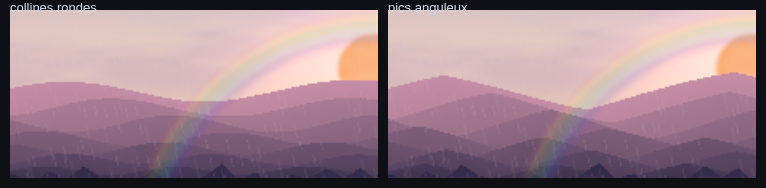
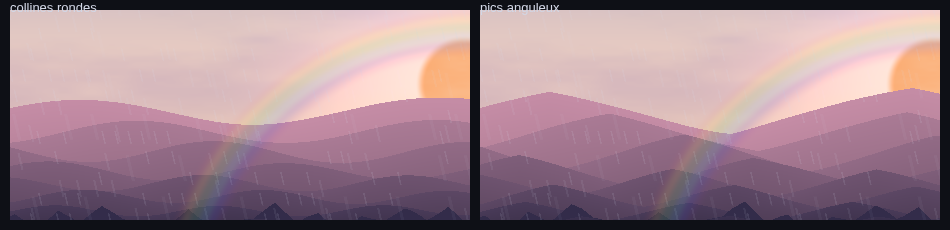
Draw the comparison of the peaks at full resolution
The picture that shows the rounded hills next to the sharp ones was a
small render blown up - a picture full of blocks, which says nothing
about the scene. It is now drawn twice the size and cut, so the pixels
are the ones the scene draws.

diff --git a/tests/e2e/scene-shot.js b/tests/e2e/scene-shot.js
@@ -84,7 +84,7 @@ const SHOTS = [
   await page.goto('about:blank');
 
   const pngs = await page.evaluate(async ({ vs, fs, shots }) => {
-    const W = 520, H = 330;
+    let W = 520, H = 330;
     const canvas = document.createElement('canvas');
     canvas.width = W; canvas.height = H;
     const gl = canvas.getContext('webgl', { preserveDrawingBuffer: true });
@@ -190,14 +190,23 @@ const SHOTS = [
     out.compare = sheet.toDataURL('image/png');
 
     // And the same for the shape of the range: the hills alone, rounded
-    // and angular, side by side. That is the part of the scene the
-    // chain changes the shape of.
-    const PEAKS = { x: 30, y: 55, w: 230, h: 105 }, PZOOM = 1.6;
+    // and angular, side by side. Drawn twice the size, because a picture
+    // that is zoomed out of a small render is a picture full of blocks.
     const peakNames = ['calm', 'chain'];
     const peakLabels = ['collines rondes', 'pics anguleux'];
+    W = 1040; H = 660;
+    canvas.width = W; canvas.height = H;
+    gl.viewport(0, 0, W, H);
+    const big = {};
+    for (const s of shots) {
+      if (peakNames.indexOf(s.name) < 0) continue;
+      big[s.name] = shot(s.chain, s.pulse, s.ghost, s.ghostX, s.livery, s.tint, s.biome);
+    }
+
+    const PEAKS = { x: 60, y: 110, w: 460, h: 210 };
     const psheet = document.createElement('canvas');
-    psheet.width = (PEAKS.w * PZOOM) * peakNames.length + PAD * (peakNames.length + 1);
-    psheet.height = PEAKS.h * PZOOM + PAD * 2;
+    psheet.width = PEAKS.w * peakNames.length + PAD * (peakNames.length + 1);
+    psheet.height = PEAKS.h + PAD * 2;
     const pctx = psheet.getContext('2d');
     pctx.fillStyle = '#0e1016';
     pctx.fillRect(0, 0, psheet.width, psheet.height);
@@ -208,11 +217,11 @@ const SHOTS = [
         const im = new Image();
         im.onload = () => resolve(im);
         im.onerror = () => reject(new Error('image load failed'));
-        im.src = out[peakNames[i]];
+        im.src = big[peakNames[i]];
       });
-      const x = PAD + i * (PEAKS.w * PZOOM + PAD);
+      const x = PAD + i * (PEAKS.w + PAD);
       pctx.drawImage(img, PEAKS.x, PEAKS.y, PEAKS.w, PEAKS.h,
-        x, PAD, PEAKS.w * PZOOM, PEAKS.h * PZOOM);
+        x, PAD, PEAKS.w, PEAKS.h);
       pctx.fillText(peakLabels[i], x, 12);
     }
     out.peaks = psheet.toDataURL('image/png');
